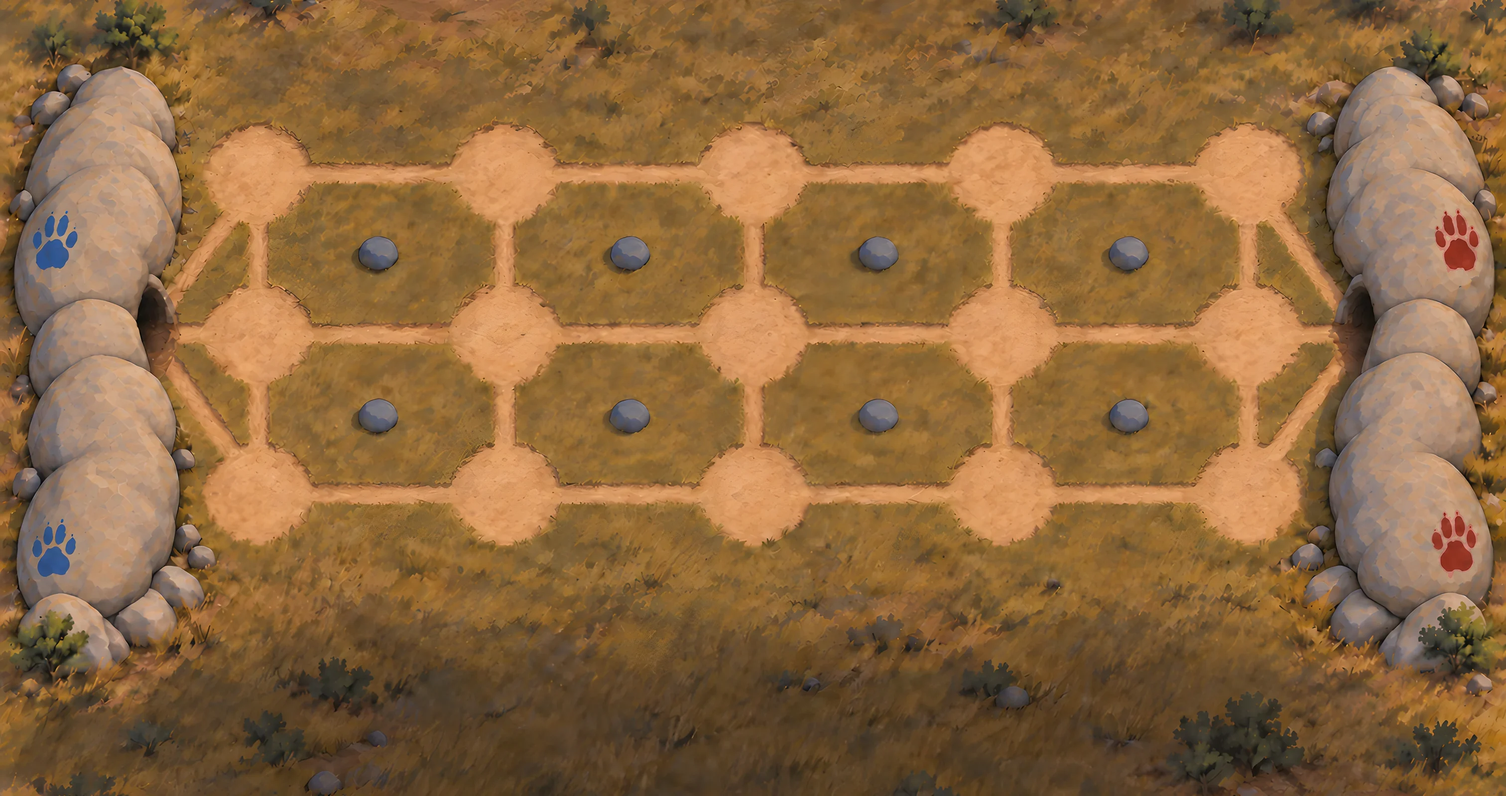
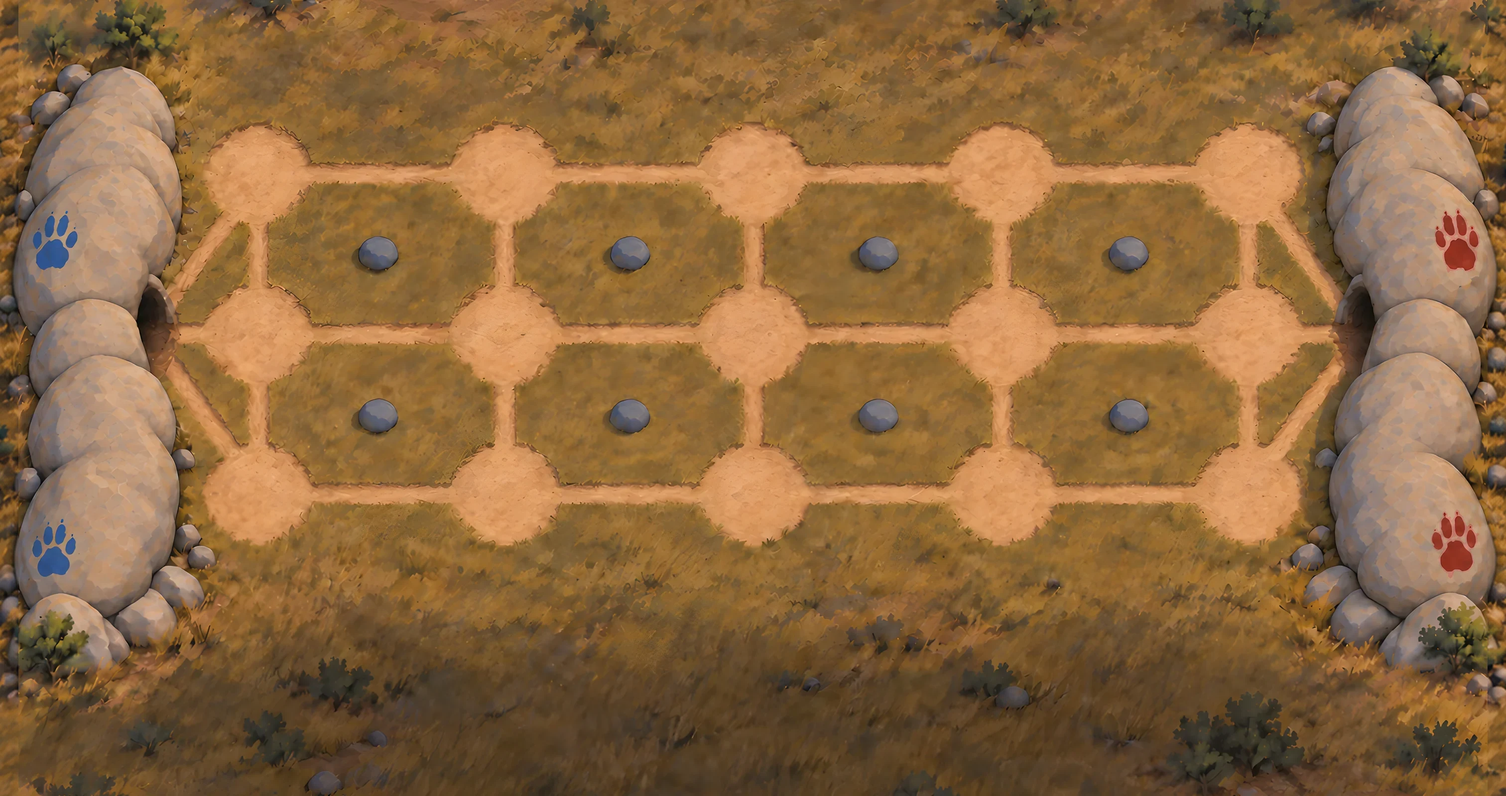
The savanna runs on past the board at every window shape: a painted bleed around the plate, scaled and centred with the stage, instead of bars
The plate's outer 20px at the sides are the painter's blend into the bleed; top and bottom join by mirroring the plate's own grass into it. Sources and steps in the design sandbox's screen/kit/plate/ (bleed_*, seam_*, plate_bleed.png).

Changed region(s): [[0.9636, 0.0, 1.0, 1.0], [0.0, 0.0938, 0.0311, 0.9375], [0.0, 0.0, 0.0311, 0.0625]]

diff --git a/animal_kingdom/web/static/game.css b/animal_kingdom/web/static/game.css
@@ -137,7 +137,7 @@
 
 /* the painted board: the plate is the whole stage, the world runs under both hands */
 .game .plate { position: absolute; left: 0; top: 0; width: 1512px; height: 800px; pointer-events: none; user-select: none; }
-.game.kit #stage { background: #2b2618; }
+.game.kit #stage { background: transparent; }   /* the painted bleed shows under the plate's anti-aliased edge, no dark seam */
 .game.kit .cr.clear { background: none; border: 0; }
 .game.kit .stone { background: none; border: 0; color: #e9e1d2; font-size: 17px; text-shadow: 0 1px 2px rgba(0,0,0,.8); }
 .game.kit .stone.A { background: var(--A); color: var(--Aink); text-shadow: none; } .game.kit .stone.B { background: var(--B); text-shadow: none; }
@@ -261,7 +261,10 @@
 
 /* ---------- the game's chrome in the menus' materials (menu.css): granite pieces, stone slabs, the blue slab, Fira Sans Condensed ---------- */
 /* The world past the stage's edges: a blurred continuation of the savanna instead of black bars. */
-.game.kit { background: #2b2618 url(/static/kit2/plate.webp) center / cover; }
+.game.kit { background: #685032; }
+/* The savanna beyond the board: the plate's painted bleed (2006 x 1337 plate px, the board's 1672 x 885 at 167, 226), at the stage's scale. */
+.game #bleed { position: absolute; left: 50%; top: 50%; width: 1512px; height: 800px; transform-origin: 0 0; pointer-events: none; }
+.game #bleed img { position: absolute; left: -151px; top: -204.4px; width: 1814px; height: 1209.1px; user-select: none; }
 .game.kit::before { content: ''; position: absolute; inset: 0; backdrop-filter: blur(16px) brightness(.85); -webkit-backdrop-filter: blur(16px) brightness(.85); }
 .game, .game .prompt, .game .panel, .game .endbox, .game .series, .game .clock, .game .waiting, .game .tbtn, .game .deck { font-family: 'Fira Sans Condensed', sans-serif; }
 /* Menu: a stone slab with a drawn icon; its list the dropdowns' stone. */

diff --git a/animal_kingdom/web/static/app.js b/animal_kingdom/web/static/app.js
@@ -424,7 +424,7 @@ function wireTips(root) {
 function gameScreen() {
   if (screen !== 'game') {
     screen = 'game';
-    app.innerHTML = `<div class="game kit" id="scr"><div id="stage">
+    app.innerHTML = `<div class="game kit" id="scr"><div id="bleed"><img src="/static/kit2/plate_bleed.webp" alt="" draggable="false"></div><div id="stage">
       <div id="board"></div>
       <div class="abs series" id="series"></div>
       <div class="abs clock" id="clock"></div>
@@ -675,10 +675,12 @@ function showPanel() {
   for (const [k, id] of [['mine', 'mine'], ['theirs', 'theirs'], ['hist', 'histp']]) document.getElementById(id).classList.toggle('on', ui.panel === k);
   if (ui.panel === 'hist') { const h = document.getElementById('hist'); h.scrollTop = h.scrollHeight; }
 }
-// The stage keeps its design size (STAGE) and scales, letterboxed, to the window.
+// The stage keeps its design size (STAGE) and scales to the window; around it the savanna runs on (the plate's painted bleed,
+// scaled and centred with the stage, so the painting is continuous at every window shape).
 function fitStage() {
   const st = document.getElementById('stage'); if (!st) return;
-  st.style.transform = `scale(${Math.min(innerWidth / STAGE.w, innerHeight / STAGE.h)}) translate(-50%, -50%)`;
+  const t = `scale(${Math.min(innerWidth / STAGE.w, innerHeight / STAGE.h)}) translate(-50%, -50%)`;
+  st.style.transform = t; document.getElementById('bleed').style.transform = t;
 }
 
 function moveLine(m) {
